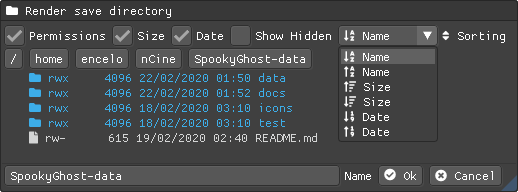
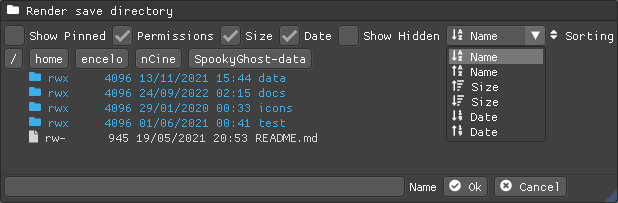
Update the documentation with the new features
- Add screenshots for the new list of pinned directories in the file dialog
- Update some screenshots to reflect the changes in the user interface

diff --git a/docs/documentation.html b/docs/documentation.html
@@ -4,7 +4,7 @@
 <meta charset="UTF-8">
 <meta http-equiv="X-UA-Compatible" content="IE=edge">
 <meta name="viewport" content="width=device-width, initial-scale=1.0">
-<meta name="generator" content="Asciidoctor 2.0.16">
+<meta name="generator" content="Asciidoctor 2.0.17">
 <link rel="icon" type="image/x-icon" href="favicon.ico">
 <title>Documentation</title>
 <link rel="stylesheet" href="https://fonts.googleapis.com/css?family=Open+Sans:300,300italic,400,400italic,600,600italic%7CNoto+Serif:400,400italic,700,700italic%7CDroid+Sans+Mono:400,700">
@@ -194,7 +194,8 @@ body.toc2.toc-right{padding-left:0;padding-right:20em}}
 #content h1>a.link:hover,h2>a.link:hover,h3>a.link:hover,#toctitle>a.link:hover,.sidebarblock>.content>.title>a.link:hover,h4>a.link:hover,h5>a.link:hover,h6>a.link:hover{color:#a53221}
 details,.audioblock,.imageblock,.literalblock,.listingblock,.stemblock,.videoblock{margin-bottom:1.25em}
 details{margin-left:1.25rem}
-details>summary{cursor:pointer;display:block;position:relative;line-height:1.6;margin-bottom:.625rem;-webkit-tap-highlight-color:transparent}
+details>summary{cursor:pointer;display:block;position:relative;line-height:1.6;margin-bottom:.625rem;outline:none;-webkit-tap-highlight-color:transparent}
+details>summary::-webkit-details-marker{display:none}
 details>summary::before{content:"";border:solid transparent;border-left:solid;border-width:.3em 0 .3em .5em;position:absolute;top:.5em;left:-1.25rem;transform:translateX(15%)}
 details[open]>summary::before{border:solid transparent;border-top:solid;border-width:.5em .3em 0;transform:translateY(15%)}
 details>summary::after{content:"";width:1.25rem;height:1em;position:absolute;top:.3em;left:-1.25rem}
@@ -236,9 +237,8 @@ pre.prettyprint li:not(:first-child) code[data-lang]::before{display:none}
 table.linenotable{border-collapse:separate;border:0;margin-bottom:0;background:none}
 table.linenotable td[class]{color:inherit;vertical-align:top;padding:0;line-height:inherit;white-space:normal}
 table.linenotable td.code{padding-left:.75em}
-table.linenotable td.linenos{border-right:1px solid;opacity:.35;padding-right:.5em}
-pre.pygments .lineno{border-right:1px solid;opacity:.35;display:inline-block;margin-right:.75em}
-pre.pygments .lineno::before{content:"";margin-right:-.125em}
+table.linenotable td.linenos,pre.pygments .linenos{border-right:1px solid;opacity:.35;padding-right:.5em;-webkit-user-select:none;-moz-user-select:none;-ms-user-select:none;user-select:none}
+pre.pygments span.linenos{display:inline-block;margin-right:.75em}
 .quoteblock{margin:0 1em 1.25em 1.5em;display:table}
 .quoteblock:not(.excerpt)>.title{margin-left:-1.5em;margin-bottom:.75em}
 .quoteblock blockquote,.quoteblock p{color:rgba(0,0,0,.85);font-size:1.15rem;line-height:1.75;word-spacing:.1em;letter-spacing:0;font-style:italic;text-align:justify}
@@ -275,7 +275,7 @@ table.frame-none>colgroup+*>:first-child>*,table.frame-sides>colgroup+*>:first-c
 table.frame-none>:last-child>:last-child>*,table.frame-sides>:last-child>:last-child>*{border-bottom-width:0}
 table.frame-none>*>tr>:first-child,table.frame-ends>*>tr>:first-child{border-left-width:0}
 table.frame-none>*>tr>:last-child,table.frame-ends>*>tr>:last-child{border-right-width:0}
-table.stripes-all tr,table.stripes-odd tr:nth-of-type(odd),table.stripes-even tr:nth-of-type(even),table.stripes-hover tr:hover{background:#f8f8f7}
+table.stripes-all>*>tr,table.stripes-odd>*>tr:nth-of-type(odd),table.stripes-even>*>tr:nth-of-type(even),table.stripes-hover>*>tr:hover{background:#f8f8f7}
 th.halign-left,td.halign-left{text-align:left}
 th.halign-right,td.halign-right{text-align:right}
 th.halign-center,td.halign-center{text-align:center}
@@ -291,10 +291,11 @@ ol{margin-left:1.75em}
 ul li ol{margin-left:1.5em}
 dl dd{margin-left:1.125em}
 dl dd:last-child,dl dd:last-child>:last-child{margin-bottom:0}
-ol>li p,ul>li p,ul dd,ol dd,.olist .olist,.ulist .ulist,.ulist .olist,.olist .ulist{margin-bottom:.625em}
+li p,ul dd,ol dd,.olist .olist,.ulist .ulist,.ulist .olist,.olist .ulist{margin-bottom:.625em}
 ul.checklist,ul.none,ol.none,ul.no-bullet,ol.no-bullet,ol.unnumbered,ul.unstyled,ol.unstyled{list-style-type:none}
 ul.no-bullet,ol.no-bullet,ol.unnumbered{margin-left:.625em}
 ul.unstyled,ol.unstyled{margin-left:0}
+li>p:empty:only-child::before{content:"";display:inline-block}
 ul.checklist>li>p:first-child{margin-left:-1em}
 ul.checklist>li>p:first-child>.fa-square-o:first-child,ul.checklist>li>p:first-child>.fa-check-square-o:first-child{width:1.25em;font-size:.8em;position:relative;bottom:.125em}
 ul.checklist>li>p:first-child>input[type=checkbox]:first-child{margin-right:.25em}
@@ -337,8 +338,6 @@ sup.footnote a:active,sup.footnoteref a:active{text-decoration:underline}
 #footnotes .footnote a:first-of-type{font-weight:bold;text-decoration:none;margin-left:-1.05em}
 #footnotes .footnote:last-of-type{margin-bottom:0}
 #content #footnotes{margin-top:-.625em;margin-bottom:0;padding:.75em 0}
-.gist .file-data>table{border:0;background:#fff;width:100%;margin-bottom:0}
-.gist .file-data>table td.line-data{width:99%}
 div.unbreakable{page-break-inside:avoid}
 .big{font-size:larger}
 .small{font-size:smaller}
@@ -805,7 +804,7 @@ It can be a way to save multiple versions of your project while working on it.</
 <div class="sect2">
 <h3 id="_file_dialog">File dialog</h3>
 <div class="paragraph">
-<p>When you have to browse your filesystem to load or save files or choose directories, the program will present you with a <code>file dialog</code> window.</p>
+<p>When you have to browse your filesystem to load and save files or choose directories, the program will present you with a <code>file dialog</code> window.</p>
 </div>
 <div class="imageblock">
 <div class="content">
@@ -813,7 +812,7 @@ It can be a way to save multiple versions of your project while working on it.</
 </div>
 </div>
 <div class="paragraph">
-<p>The file dialog will show you all the entries inside a directory together with their types (file or directories), access permissions, sizes, and last modification dates. It will also color executables with a shade of green and filter files by extension if needed, for example when loading a project file or a texture.</p>
+<p>The file dialog will show you all the entries inside a directory together with their types (file or directory), access permissions, sizes, and last modification dates. It will also color executables with a shade of green and filter files by extension if needed, for example when loading a project file or a texture.</p>
 </div>
 <div class="imageblock">
 <div class="content">
@@ -832,7 +831,21 @@ It can be a way to save multiple versions of your project while working on it.</
 <p>When deciding the destination directory for rendered frames the file dialog will allow directories to be selected.</p>
 </div>
 <div class="paragraph">
-<p>All kinds of file dialogs have a set of checkboxes to show or hide file permissions, sizes, and dates plus a checkbox that when enabled will show hidden files or directories. As you can see in the last screenshot there is also a drop-down menu to select the entries sorting based on names, sizes, or dates.</p>
+<p>All kinds of file dialogs have a set of checkboxes to show or hide pinned directories, file permissions, sizes, and dates plus a checkbox that when enabled will show hidden files or directories. As you can see in the last screenshot there is also a drop-down menu to select the entries sorting based on names, sizes, or dates.</p>
+</div>
+<div class="imageblock">
+<div class="content">
+<img src="file_dialog_pinned.png" alt="Pinned directories">
+</div>
+</div>
+<div class="paragraph">
+<p>When the checkbox for the pinned directories is enabled you will see a panel on the left that shows a list of directories that are currently pinned for a quicker access: just click on one of them to navigate there.
+You can reorder the list by drag and drop.</p>
+</div>
+<div class="paragraph">
+<p>To add a new directory to the list of pinned directories just browse to the desired directory and click the <b class="button">Pin</b> button.
+To remove an element from the list either browse to it and click <b class="button">Unpin</b>, or right-click it and select <b class="button">Unpin</b> from the context menu.
+The list of pinned directories is automatically saved to the configuration file when you quit the program.</p>
 </div>
 </div>
 <div class="sect2">
@@ -2117,6 +2130,36 @@ It can be one of the members of the <code>blending_preset</code> table: <code>DI
 <div class="sect1">
 <h2 id="_changelog">Changelog</h2>
 <div class="sectionbody">
+<h3 id="_27_september_2022" class="discrete">27 September 2022</h3>
+<div class="ulist">
+<ul>
+<li>
+<p><strong>[NEW]</strong> Add support for dragging files from the system to the file dialog, Textures, Scripts, and Render windows</p>
+</li>
+</ul>
+</div>
+<h3 id="_23_september_2022" class="discrete">23 September 2022</h3>
+<div class="ulist">
+<ul>
+<li>
+<p><strong>[NEW]</strong> Add a list of pinned directories to the file dialog (part of the configuration)</p>
+</li>
+<li>
+<p><strong>[FIX]</strong> Close the file dialog modal popup before showing the quit confirmation one</p>
+</li>
+</ul>
+</div>
+<h3 id="_22_september_2022" class="discrete">22 September 2022</h3>
+<div class="ulist">
+<ul>
+<li>
+<p><strong>[FIX]</strong> Fix a crash when playing animations in a sequential group with disabled looping</p>
+</li>
+<li>
+<p><strong>[FIX]</strong> Fix compilation with the latest version of the nCine</p>
+</li>
+</ul>
+</div>
 <h3 id="_26_october_2021" class="discrete">26 October 2021</h3>
 <div class="ulist">
 <ul>
